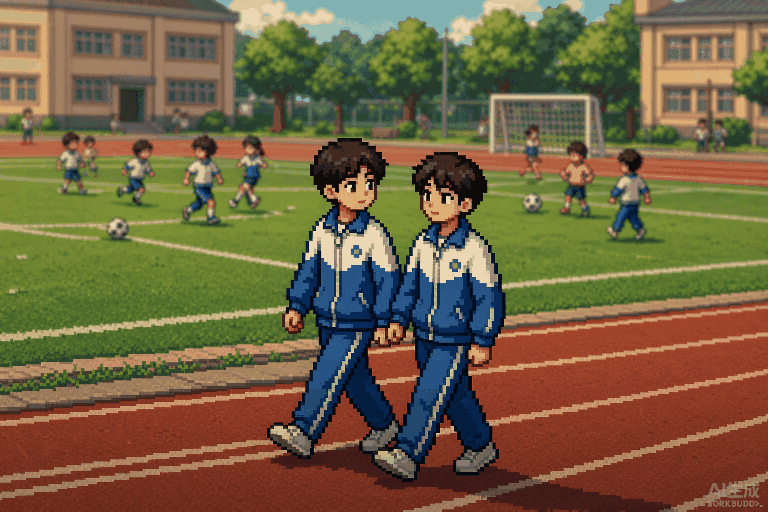
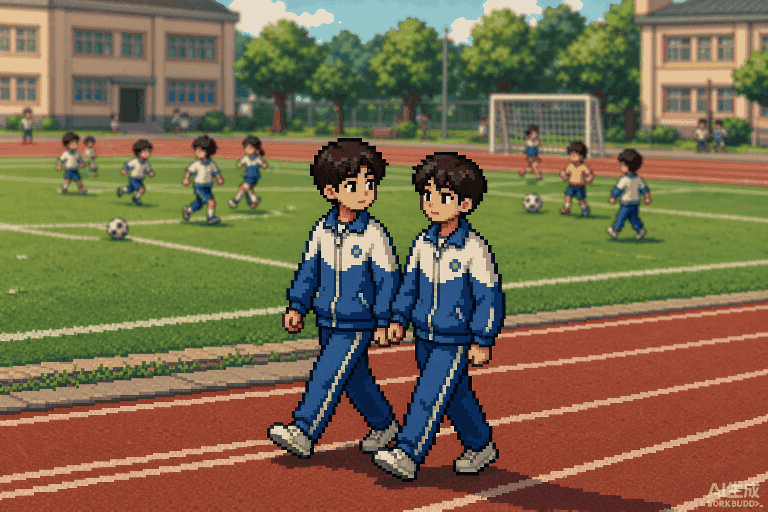
tweak(assets): social 图按 study/rest/exercise 实测参数对齐打光
- 定位根因：之前给 social 额外涂了暗角+底部阴影，使其比三张参考图更暗（中部106>三张77-94）
- 移除人工暗角与底部阴影，仅保留极轻顶部窗光，打光结构对齐三张自带暗部
- 曝光 0.94（整体 107，介于原图114与上一版99之间），饱和 0.80（124.7，落入三张111-133区间）
- 轻微暖调 R×1.01/B×0.96
- social 图缓存号 ?v=5→?v=6，game.js ?v=46→?v=47，同步 docs/

diff --git a/docs/index.html b/docs/index.html
@@ -41,7 +41,7 @@
   <script src="recommendations-2024.js?v=1"></script>
   <script src="admissions-recommendations.js?v=3"></script>
   <script src="admissions-probability.js?v=1"></script>
-  <script src="game.js?v=46"></script>
+  <script src="game.js?v=47"></script>
   <script src="custom-tiers.js?v=1"></script>
   <script src="study-minigame.js?v=2"></script>
   <script src="exercise-minigame.js?v=9"></script>

diff --git a/frontend/index.html b/frontend/index.html
@@ -41,7 +41,7 @@
   <script src="recommendations-2024.js?v=1"></script>
   <script src="admissions-recommendations.js?v=3"></script>
   <script src="admissions-probability.js?v=1"></script>
-  <script src="game.js?v=46"></script>
+  <script src="game.js?v=47"></script>
   <script src="custom-tiers.js?v=1"></script>
   <script src="study-minigame.js?v=2"></script>
   <script src="exercise-minigame.js?v=9"></script>

diff --git a/docs/game.js b/docs/game.js
@@ -101,7 +101,7 @@ const ACTION_IMAGES = {
   study: "assets/action-study-pixel.png?v=3",
   rest: "assets/action-rest-pixel.png?v=3",
   exercise: "assets/action-exercise-pixel.png?v=3",
-  social: "assets/action-social-pixel.png?v=5",
+  social: "assets/action-social-pixel.png?v=6",
 };
 
 function localMusicSource(category,filename){

diff --git a/frontend/game.js b/frontend/game.js
@@ -101,7 +101,7 @@ const ACTION_IMAGES = {
   study: "assets/action-study-pixel.png?v=3",
   rest: "assets/action-rest-pixel.png?v=3",
   exercise: "assets/action-exercise-pixel.png?v=3",
-  social: "assets/action-social-pixel.png?v=5",
+  social: "assets/action-social-pixel.png?v=6",
 };
 
 function localMusicSource(category,filename){
